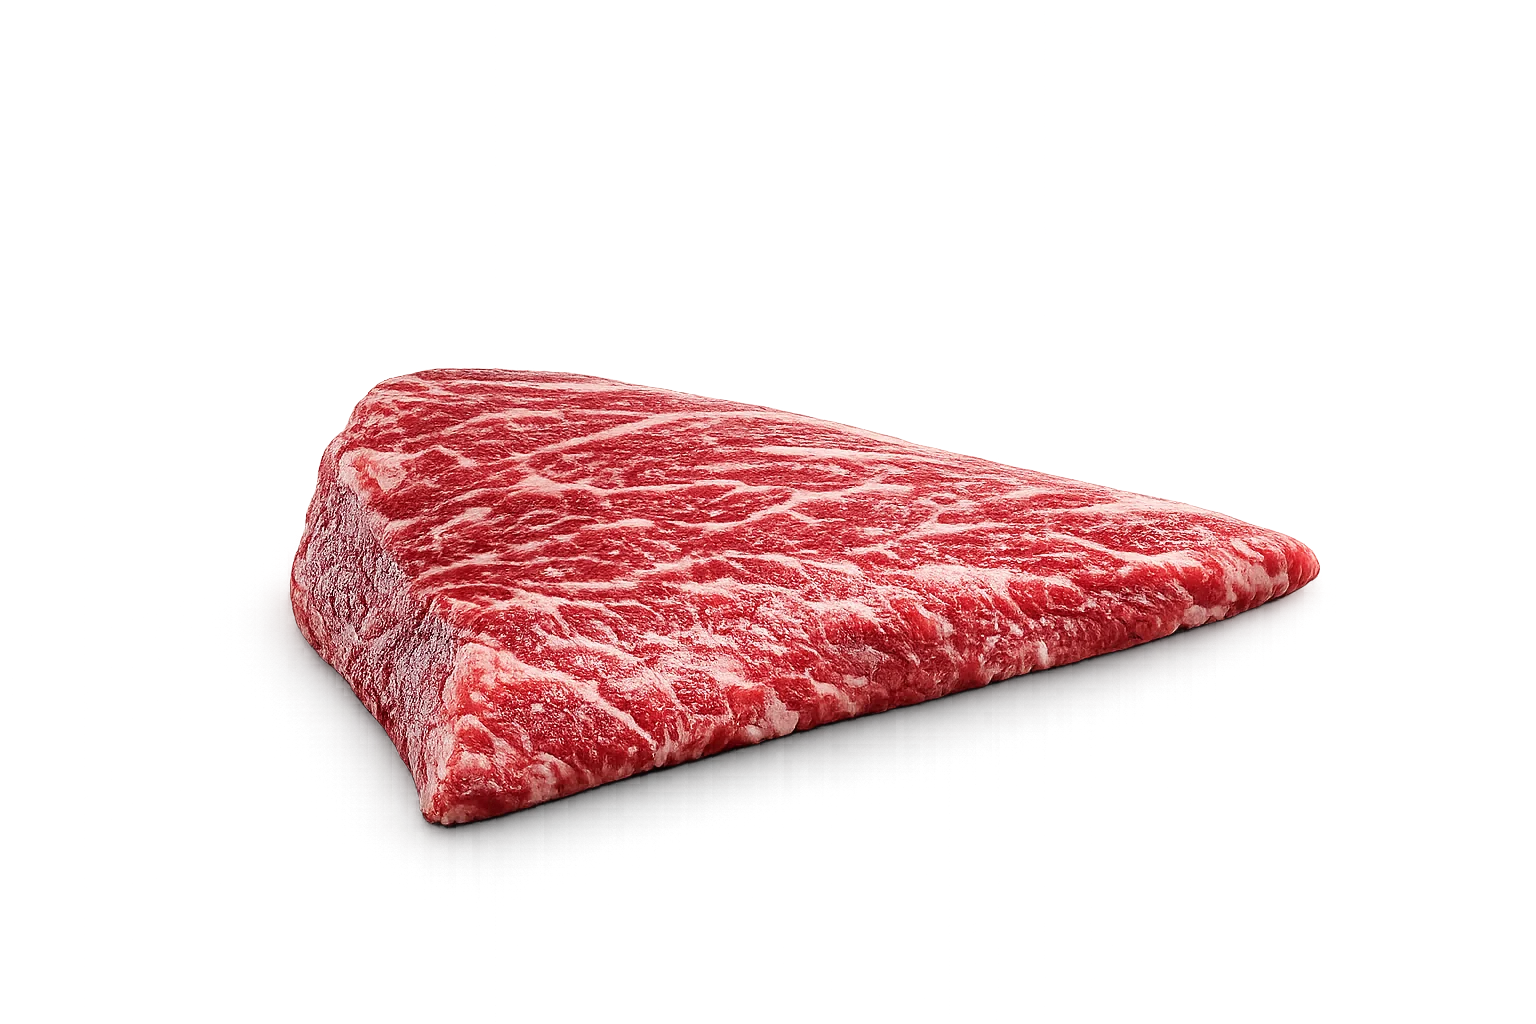
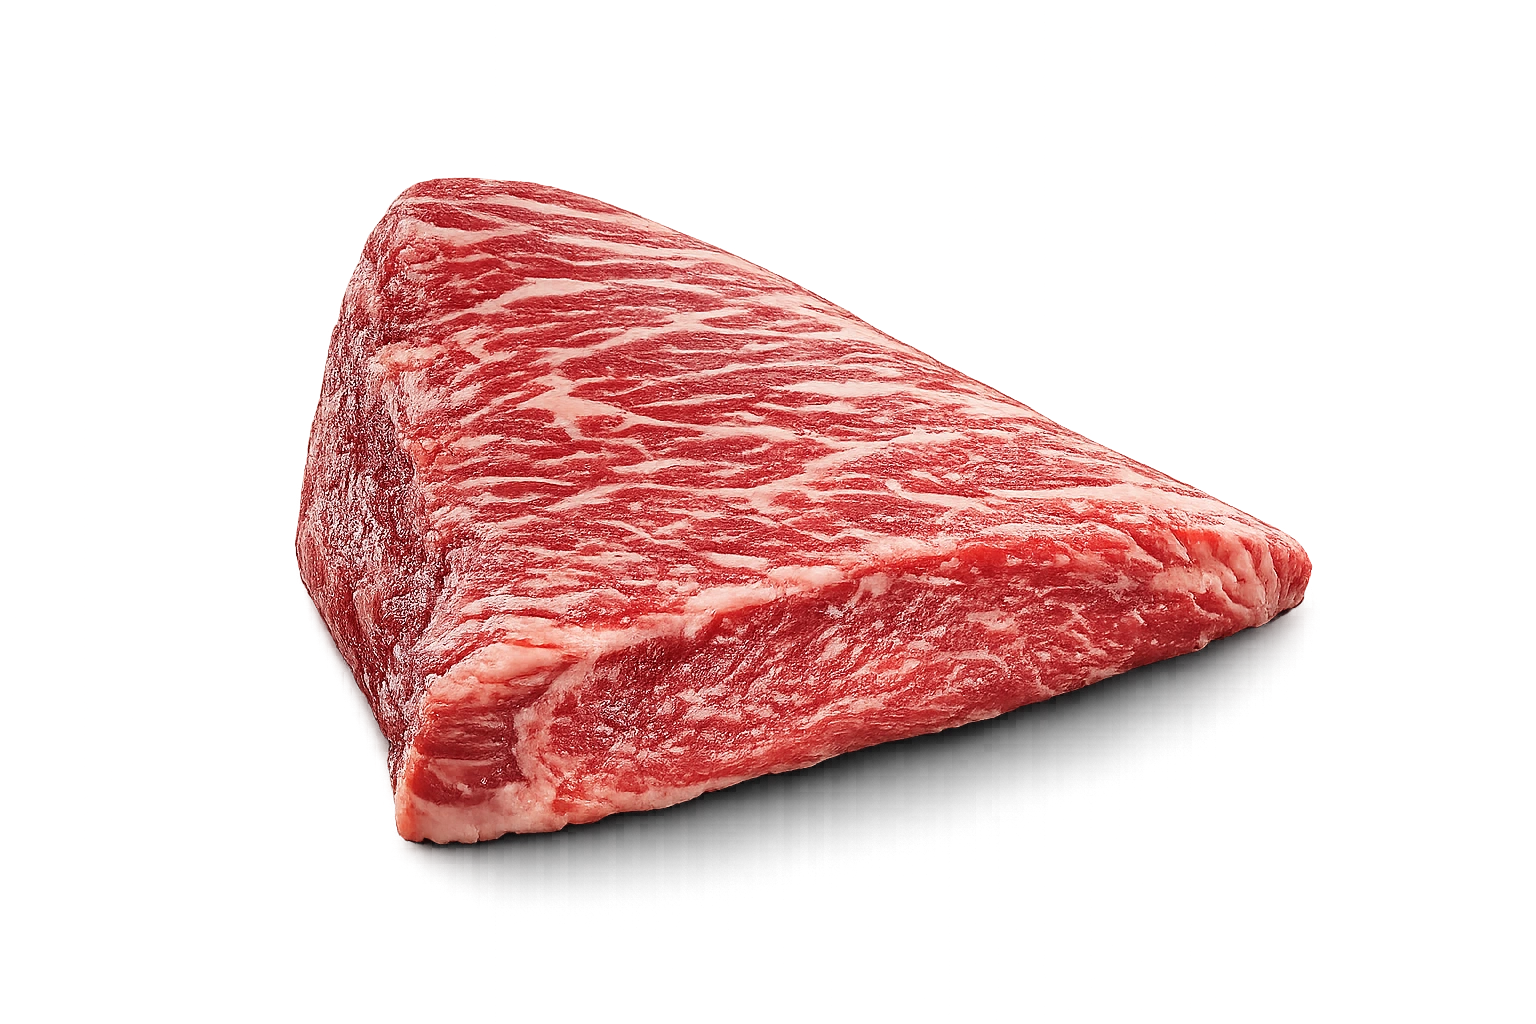
feat: replace tri tip cut image

Changed region(s): [[0.1875, 0.1562, 0.875, 0.875]]

diff --git a/src/styles.css b/src/styles.css
@@ -9081,3 +9081,47 @@ body.selected-cut-modal-open .global-contact-cta {
   }
 }
 /* ROUND3_PROVIDER_MODAL_INQUIRY_CTA_END */
+
+
+
+/* ROUND3_TRI_TIP_CARD_IMAGE_FIT_START */
+.cut-card--tri-tip .cut-card-image {
+  top: 50%;
+  right: auto;
+  bottom: auto;
+  left: 56%;
+  width: clamp(190px, 16vw, 250px);
+  height: 140%;
+  max-width: none;
+  object-fit: contain;
+  object-position: center center;
+  transform: translate(-50%, -50%) scale(1.12);
+  transform-origin: center center;
+}
+
+.cut-card--tri-tip:hover .cut-card-image,
+.cut-card--tri-tip:focus-visible .cut-card-image {
+  transform: translate(-50%, -50%) scale(1.16);
+}
+
+@media (max-width: 900px) {
+  .cut-card--tri-tip .cut-card-image {
+    left: 58%;
+    width: 170px;
+    height: 132%;
+    transform: translate(-50%, -50%) scale(1.08);
+  }
+
+  .cut-card--tri-tip:hover .cut-card-image,
+  .cut-card--tri-tip:focus-visible .cut-card-image {
+    transform: translate(-50%, -50%) scale(1.12);
+  }
+}
+
+@media (prefers-reduced-motion: reduce) {
+  .cut-card--tri-tip:hover .cut-card-image,
+  .cut-card--tri-tip:focus-visible .cut-card-image {
+    transform: translate(-50%, -50%) scale(1.12);
+  }
+}
+/* ROUND3_TRI_TIP_CARD_IMAGE_FIT_END */
